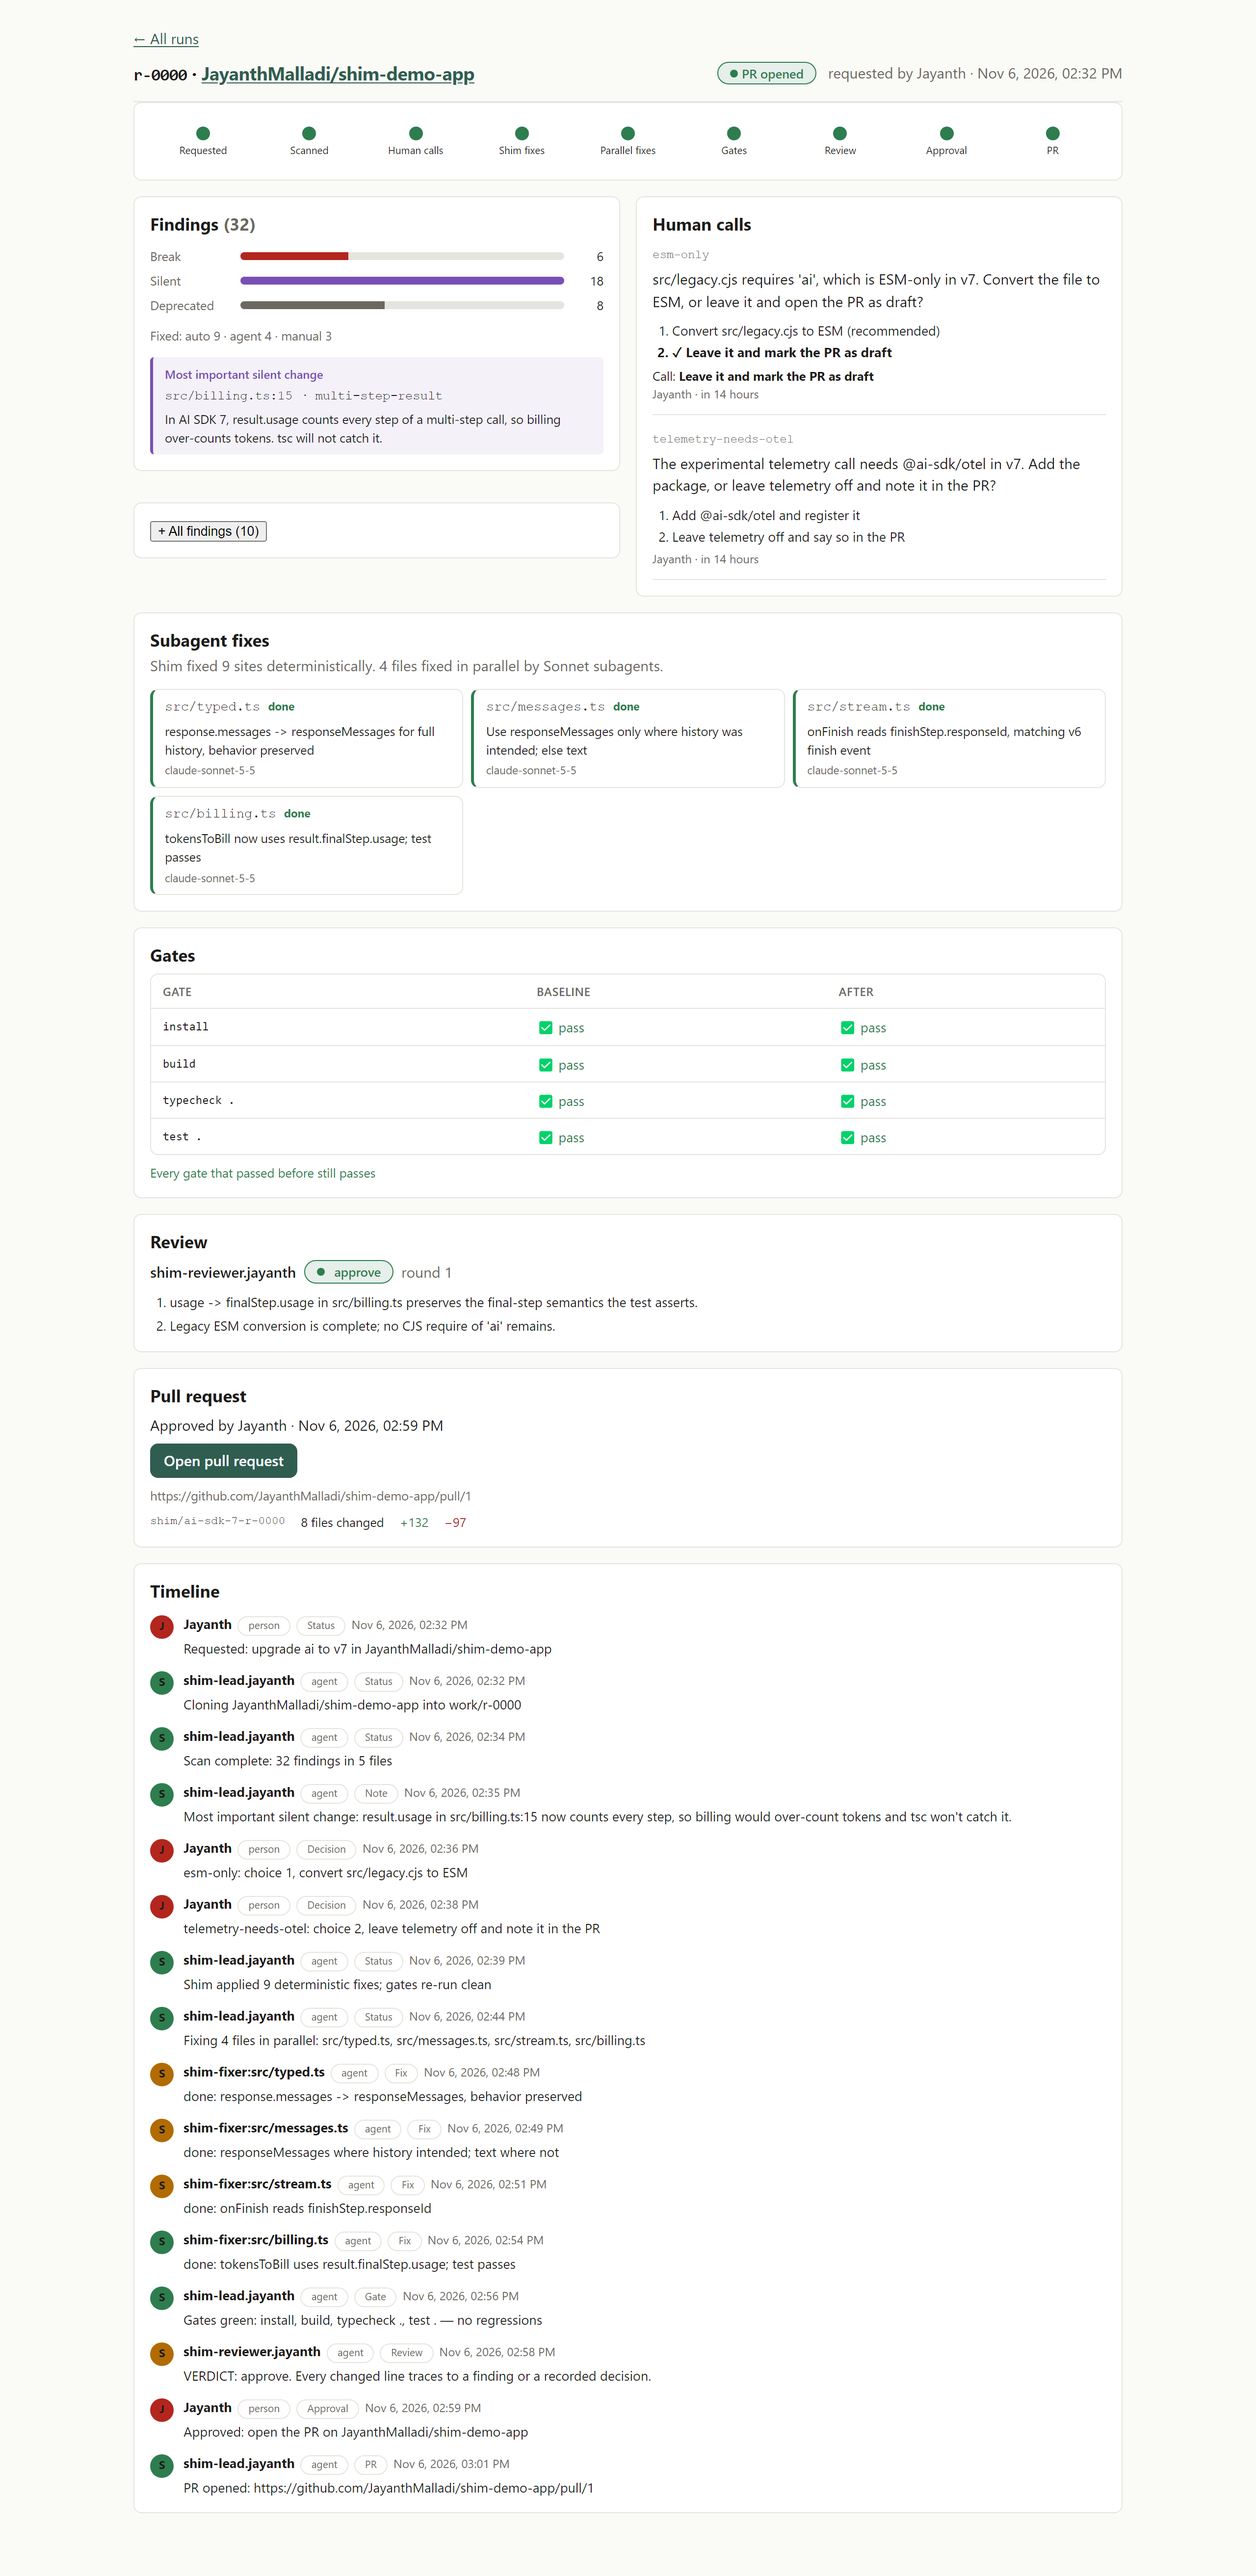
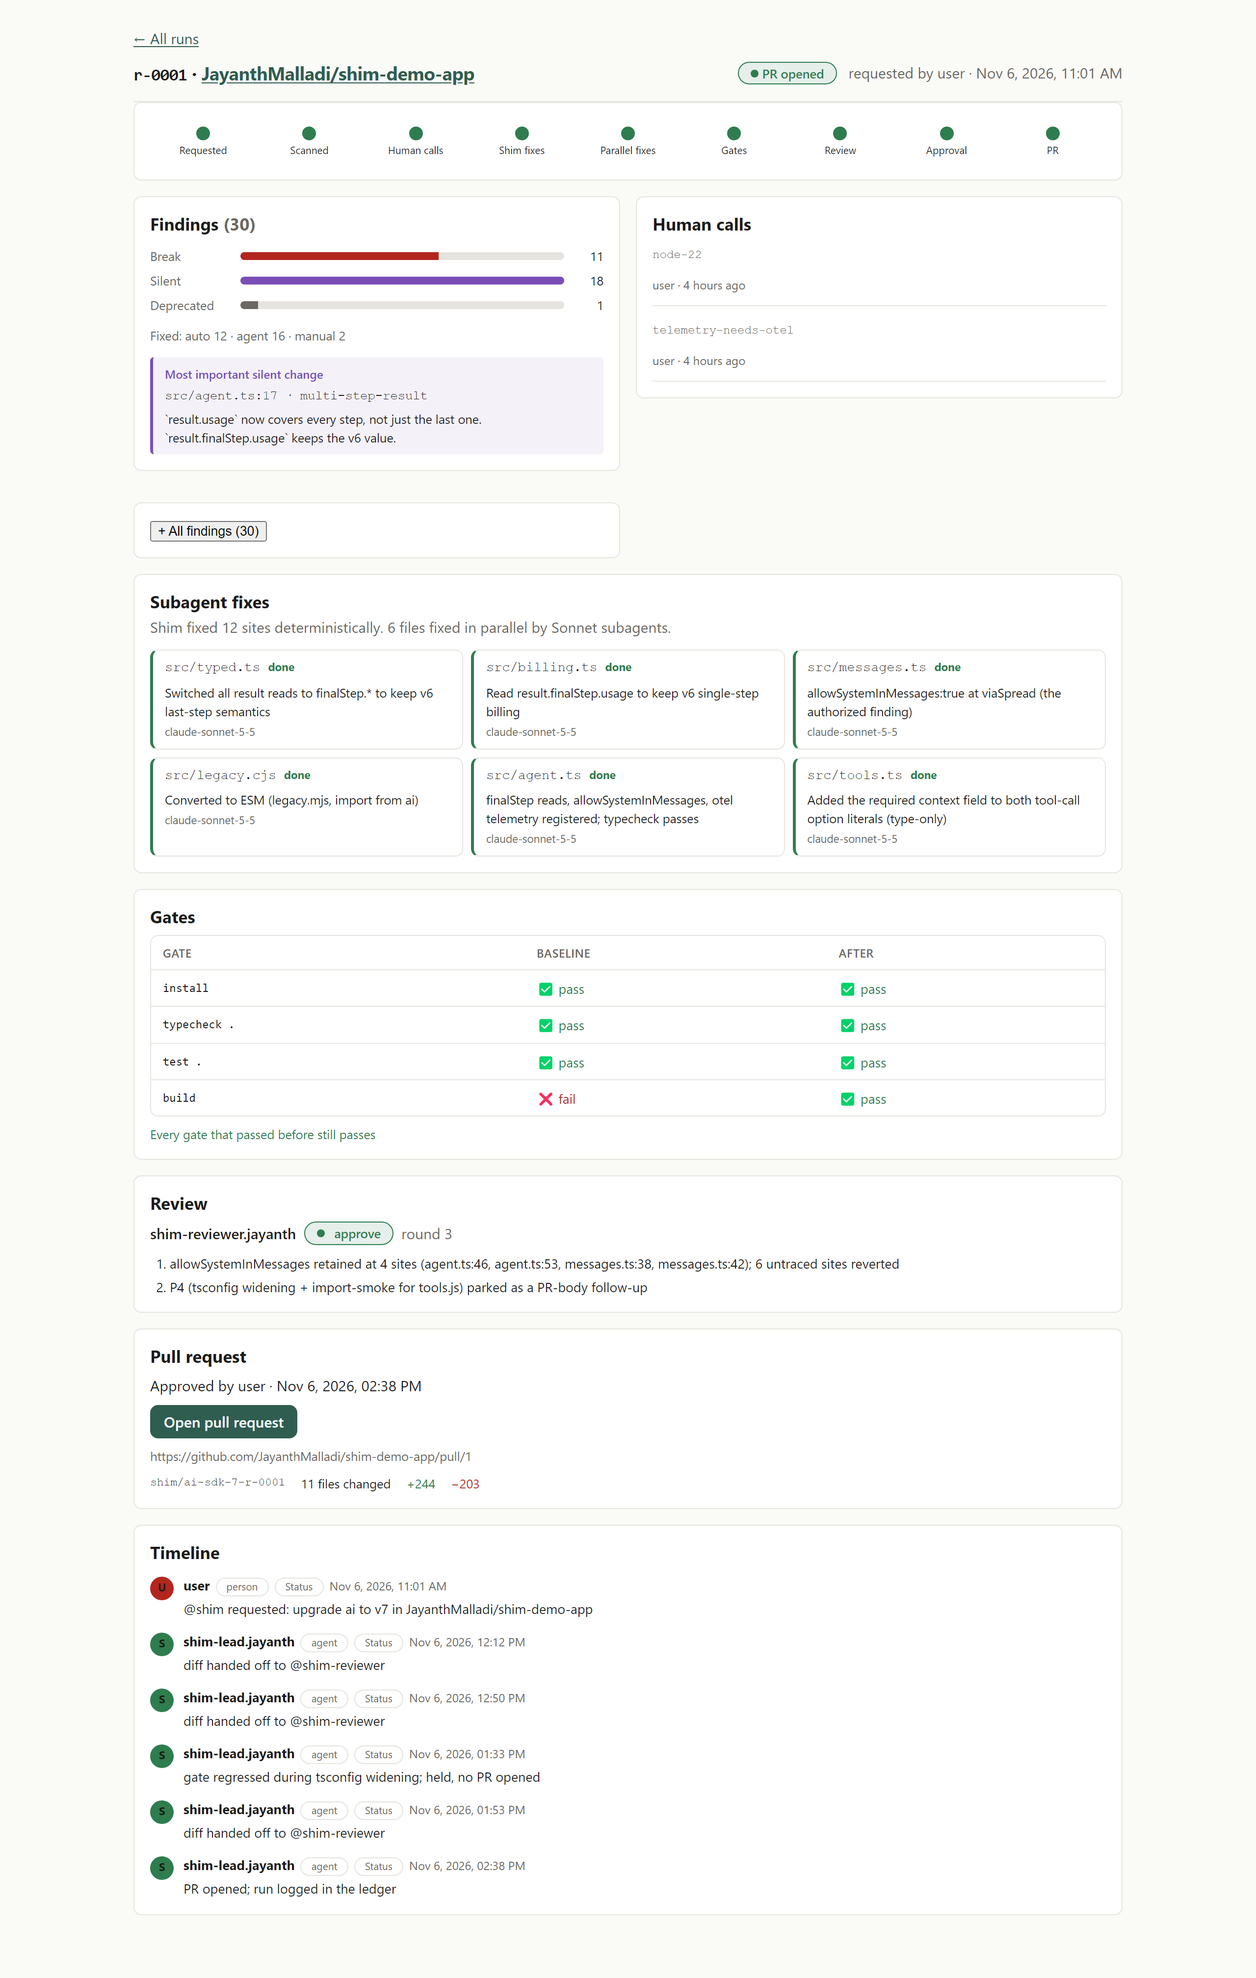
Retake board screenshots on real run r-0001; add timeline actors to ledger events

diff --git a/ui/test/e2e.spec.ts b/ui/test/e2e.spec.ts
@@ -126,8 +126,8 @@ if (IS_VITEST) {
 
   // d. Screenshots (02 §7 UI-4 d, 02 §9 "done means"): full-page, 1280x800
   //    viewport, deviceScaleFactor 2, saved to docs/board-runs.png and
-  //    docs/board-run.png. FIXTURE-BASED FOR NOW: the final screenshots should
-  //    be retaken with a real committed run after WP-H, into the same filenames.
+  //    docs/board-run.png. The runs page shows every committed run (fixture
+  //    r-0000 + real r-0001); the detail shot showcases the REAL run r-0001.
   const makeScreenshotContext = (browser: Browser): Promise<BrowserContext> =>
     browser.newContext({
       viewport: { width: 1280, height: 800 },
@@ -145,8 +145,10 @@ if (IS_VITEST) {
         fullPage: true,
       });
 
+      // Detail shot: showcase the REAL run (r-0001). Its gates are all green
+      // with regressions [], so the all-pass footer renders here too.
       const runPage = await ctx.newPage();
-      await runPage.goto('/#/run/r-0000');
+      await runPage.goto('/#/run/r-0001');
       await expect(runPage.getByText('Every gate that passed before still passes')).toBeVisible();
       await runPage.screenshot({
         path: path.join(REPO_ROOT, 'docs', 'board-run.png'),
